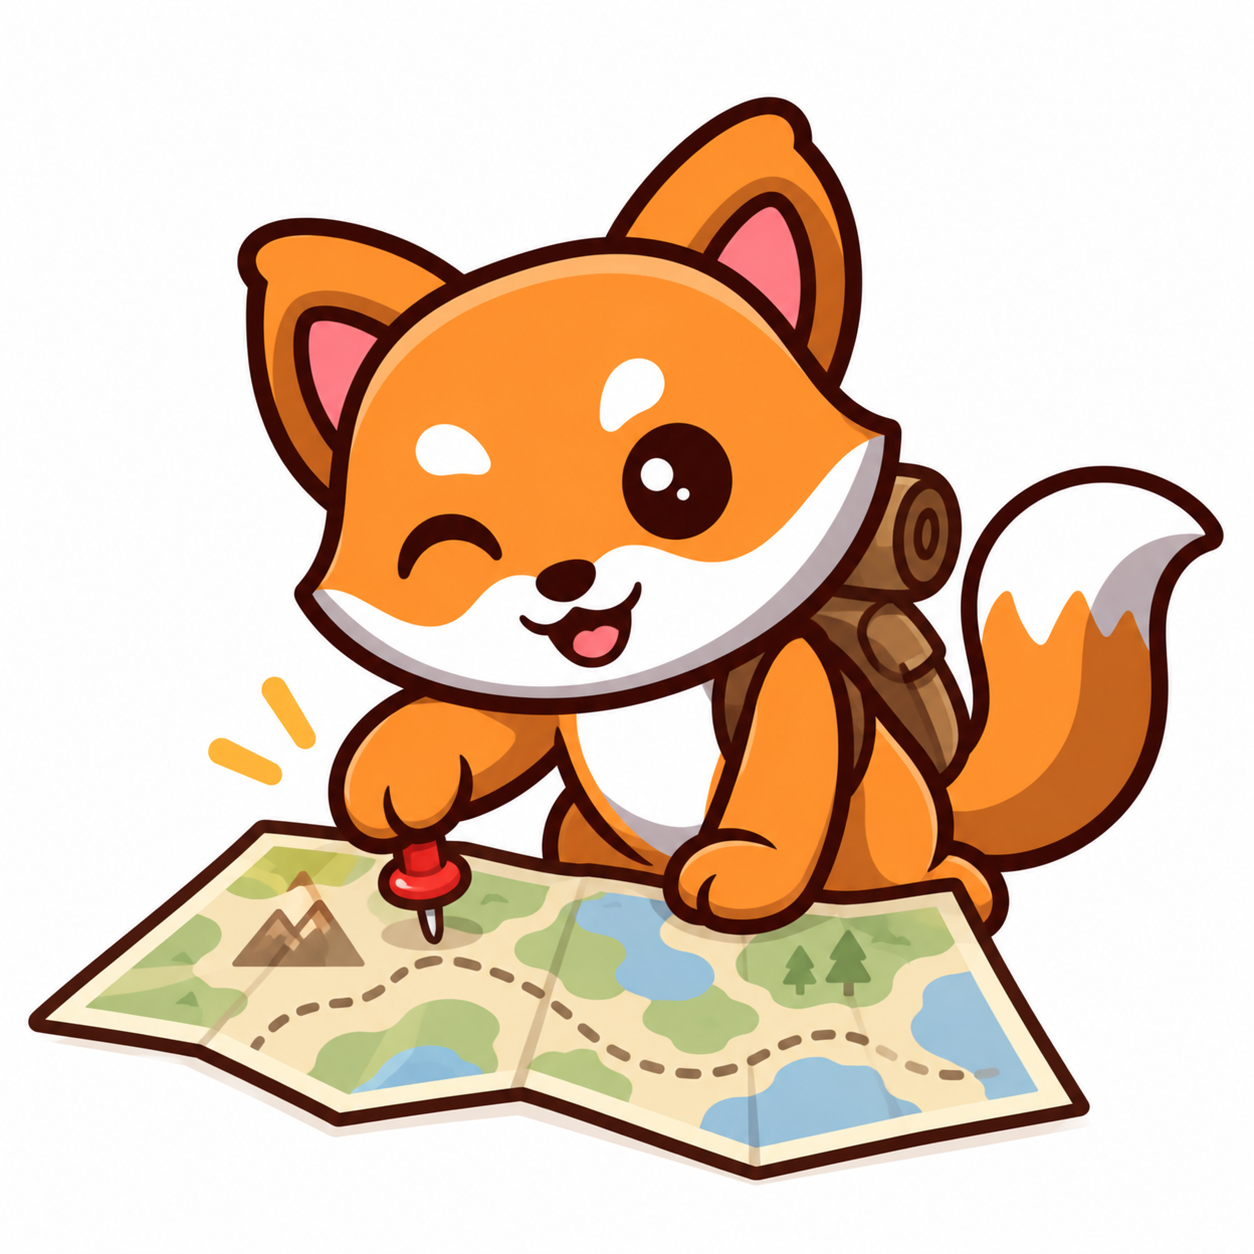
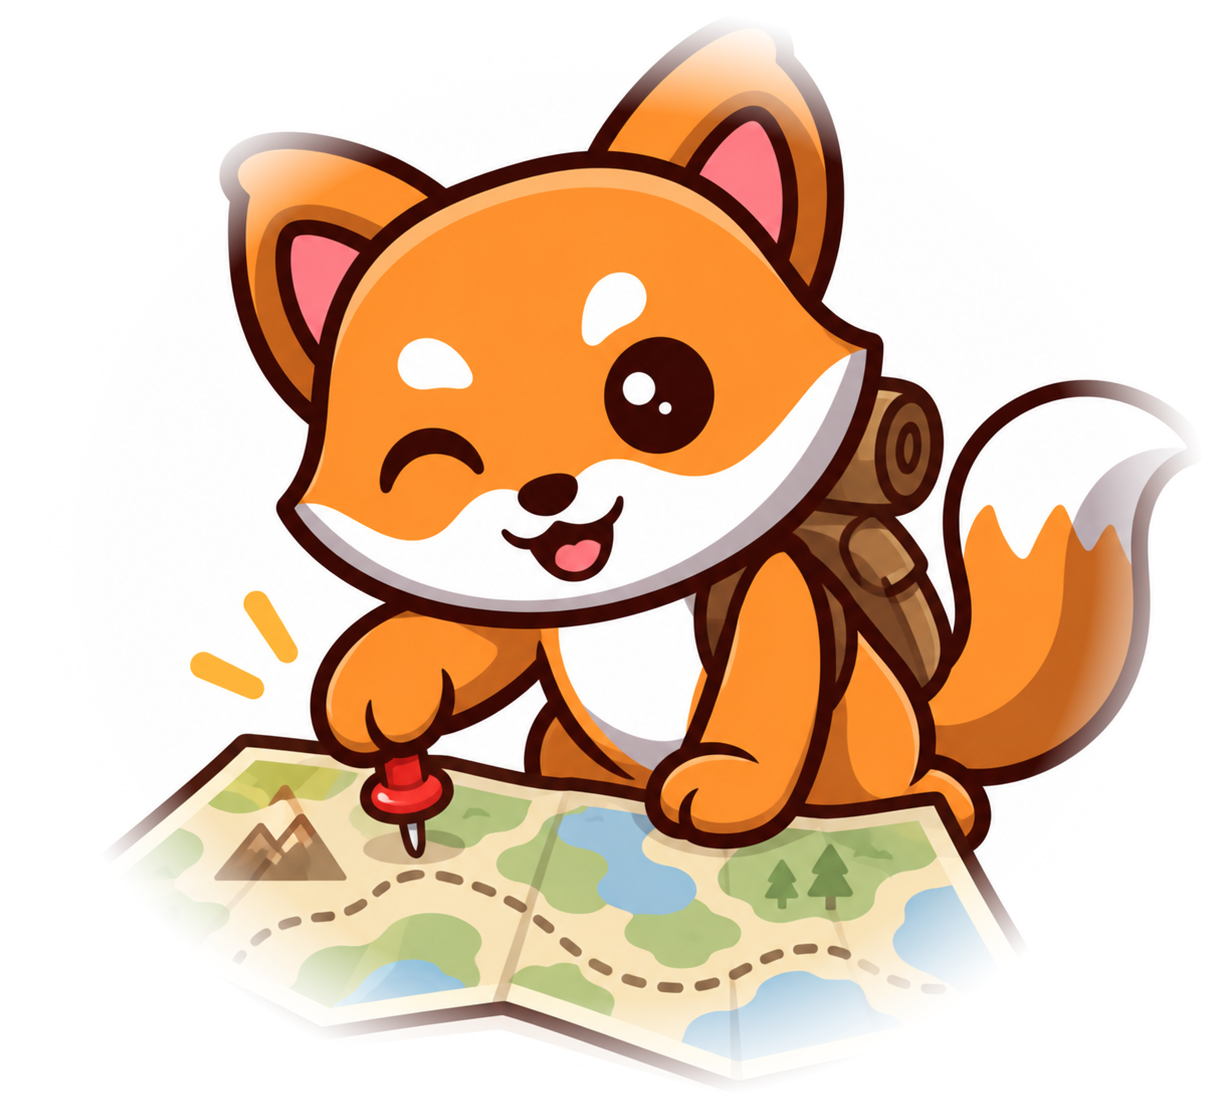
Add 3-screen onboarding carousel after the welcome screen
Shows after "Comenzar" on the welcome screen, before sign-in: create
a trip and share it with friends (recuerdo.png), save a memory
(registro.png), and link an NFC sticker (reuses saludo.png -- no
dedicated artwork for that one). Dots indicator, "Siguiente"/
"Comenzar" progression, "Saltar" to skip straight to sign-in, and a
soft fade transition between steps.

recuerdo.png and registro.png had a real opaque white background
(unlike saludo.png, which already had proper alpha). Removing it
turned out to be more involved than expected: a plain color-distance
cutout also erased the character's own white fur (cheeks, belly,
tail tip) since it's the same near-white as the background, and a
border-seeded flood fill leaked through into those regions too
wherever they connect to the true background without a fully closed
outline. Rather than keep chasing a pixel-perfect matte, applied a
soft radial vignette that fades the image to transparent only in its
outer margin -- the character (centered, away from the edges) is
never touched, and the crop's rectangular edge just dissolves into
the screen's cream background instead of showing as a white box.

diff --git a/components/OnboardingCarousel.tsx b/components/OnboardingCarousel.tsx
@@ -1,0 +1,110 @@
+import { useRef, useState } from 'react';
+import { Animated, Pressable, StyleSheet, Text, View } from 'react-native';
+import { Ionicons } from '@expo/vector-icons';
+import { colors, fonts, radii, spacing } from '@/constants/theme';
+import { FloatingMascot } from './FloatingMascot';
+
+const STEPS = [
+  {
+    // eslint-disable-next-line @typescript-eslint/no-require-imports
+    image: require('../assets/mascota/recuerdo.png'),
+    title: 'Crea tu viaje',
+    body: 'Organiza cada aventura y comparte el viaje con tus amigos para que todos podáis añadir recuerdos juntos.',
+  },
+  {
+    // eslint-disable-next-line @typescript-eslint/no-require-imports
+    image: require('../assets/mascota/registro.png'),
+    title: 'Guarda tus recuerdos',
+    body: 'Añade fotos, notas y los momentos especiales de cada día, todo en un mismo sitio.',
+  },
+  {
+    // eslint-disable-next-line @typescript-eslint/no-require-imports
+    image: require('../assets/mascota/saludo.png'),
+    title: 'Vincula un NFC',
+    body: 'Pega un sticker NFC a un objeto físico. Al acercar el móvil, el recuerdo se abre al instante.',
+  },
+];
+
+export function OnboardingCarousel({ onFinish }: { onFinish: () => void }) {
+  const [step, setStep] = useState(0);
+  const fade = useRef(new Animated.Value(1)).current;
+  const isLast = step === STEPS.length - 1;
+  const current = STEPS[step];
+
+  const goTo = (next: number) => {
+    Animated.sequence([
+      Animated.timing(fade, { toValue: 0, duration: 140, useNativeDriver: true }),
+    ]).start(() => {
+      setStep(next);
+      Animated.timing(fade, { toValue: 1, duration: 220, useNativeDriver: true }).start();
+    });
+  };
+
+  const onNext = () => {
+    if (isLast) {
+      onFinish();
+      return;
+    }
+    goTo(step + 1);
+  };
+
+  return (
+    <View style={styles.screen}>
+      <Pressable style={styles.skip} onPress={onFinish}>
+        <Text style={styles.skipText}>Saltar</Text>
+      </Pressable>
+
+      <Animated.View style={[styles.content, { opacity: fade }]}>
+        <FloatingMascot source={current.image} />
+        <Text style={styles.title}>{current.title}</Text>
+        <Text style={styles.body}>{current.body}</Text>
+      </Animated.View>
+
+      <View style={styles.bottom}>
+        <View style={styles.dots}>
+          {STEPS.map((_, i) => (
+            <View key={i} style={[styles.dot, i === step && styles.dotOn]} />
+          ))}
+        </View>
+
+        <Pressable style={({ pressed }) => [styles.button, pressed && { opacity: 0.9 }]} onPress={onNext}>
+          <Text style={styles.buttonText}>{isLast ? 'Comenzar' : 'Siguiente'}</Text>
+          <Ionicons name="arrow-forward" size={18} color={colors.background} />
+        </Pressable>
+      </View>
+    </View>
+  );
+}
+
+const styles = StyleSheet.create({
+  screen: { flex: 1, backgroundColor: colors.background },
+  skip: { position: 'absolute', top: 60, right: spacing.xl, zIndex: 1, padding: spacing.xs },
+  skipText: { fontFamily: fonts.sansSemiBold, color: colors.ink55, fontSize: 14 },
+  content: { flex: 1, alignItems: 'center', justifyContent: 'center', paddingHorizontal: spacing.xl },
+  title: { fontFamily: fonts.serif, fontSize: 28, color: colors.ink, textAlign: 'center', marginTop: spacing.lg },
+  body: {
+    fontFamily: fonts.sansMedium,
+    fontSize: 15,
+    color: colors.ink55,
+    textAlign: 'center',
+    marginTop: spacing.sm,
+    lineHeight: 21,
+    maxWidth: 320,
+  },
+  bottom: { paddingHorizontal: spacing.xl, paddingBottom: spacing.xxl, alignItems: 'center', gap: spacing.lg },
+  dots: { flexDirection: 'row', gap: 8 },
+  dot: { width: 7, height: 7, borderRadius: 3.5, backgroundColor: colors.line },
+  dotOn: { backgroundColor: colors.terracotta, width: 20 },
+  button: {
+    flexDirection: 'row',
+    alignItems: 'center',
+    gap: 8,
+    backgroundColor: colors.terracotta,
+    borderRadius: radii.pill,
+    paddingVertical: 16,
+    paddingHorizontal: spacing.xxl,
+    alignSelf: 'stretch',
+    justifyContent: 'center',
+  },
+  buttonText: { fontFamily: fonts.sansBold, color: colors.background, fontSize: 16 },
+});

diff --git a/app/_layout.tsx b/app/_layout.tsx
@@ -18,7 +18,10 @@ import {
 import { AuthProvider } from '@/lib/auth-context';
 import { ConfirmProvider } from '@/lib/confirm-context';
 import { WelcomeOverview } from '@/components/WelcomeOverview';
+import { OnboardingCarousel } from '@/components/OnboardingCarousel';
 import { colors } from '@/constants/theme';
+
+type Stage = 'welcome' | 'onboarding' | 'app';
 
 SplashScreen.preventAutoHideAsync().catch(() => {});
 
@@ -34,7 +37,7 @@ export default function RootLayout() {
     DMSerifDisplay_400Regular_Italic,
   });
   const fontsLoaded = interLoaded && serifLoaded;
-  const [welcomeDismissed, setWelcomeDismissed] = useState(false);
+  const [stage, setStage] = useState<Stage>('welcome');
 
   useEffect(() => {
     if (fontsLoaded) SplashScreen.hideAsync().catch(() => {});
@@ -47,7 +50,7 @@ export default function RootLayout() {
       <SafeAreaProvider>
         <AuthProvider>
           <ConfirmProvider>
-            {welcomeDismissed ? (
+            {stage === 'app' && (
               <Stack
                 screenOptions={{
                   headerShown: false,
@@ -62,9 +65,9 @@ export default function RootLayout() {
                 <Stack.Screen name="vincular-nfc" options={{ presentation: 'modal' }} />
                 <Stack.Screen name="seleccionar-lugar" options={{ presentation: 'modal' }} />
               </Stack>
-            ) : (
-              <WelcomeOverview onContinue={() => setWelcomeDismissed(true)} />
             )}
+            {stage === 'welcome' && <WelcomeOverview onContinue={() => setStage('onboarding')} />}
+            {stage === 'onboarding' && <OnboardingCarousel onFinish={() => setStage('app')} />}
           </ConfirmProvider>
         </AuthProvider>
       </SafeAreaProvider>

diff --git a/components/FloatingMascot.tsx b/components/FloatingMascot.tsx
@@ -1,0 +1,31 @@
+import { useEffect, useRef } from 'react';
+import { Animated, Easing, Image, StyleSheet, type ImageSourcePropType } from 'react-native';
+
+const SIZE = 200;
+
+export function FloatingMascot({ source }: { source: ImageSourcePropType }) {
+  const float = useRef(new Animated.Value(0)).current;
+
+  useEffect(() => {
+    const loop = Animated.loop(
+      Animated.sequence([
+        Animated.timing(float, { toValue: -1, duration: 1400, easing: Easing.inOut(Easing.sin), useNativeDriver: true }),
+        Animated.timing(float, { toValue: 1, duration: 1400, easing: Easing.inOut(Easing.sin), useNativeDriver: true }),
+      ])
+    );
+    loop.start();
+    return () => loop.stop();
+  }, [float]);
+
+  const translateY = float.interpolate({ inputRange: [-1, 1], outputRange: [-8, 8] });
+
+  return (
+    <Animated.View style={{ transform: [{ translateY }] }}>
+      <Image source={source} style={styles.image} resizeMode="contain" />
+    </Animated.View>
+  );
+}
+
+const styles = StyleSheet.create({
+  image: { width: SIZE, height: SIZE },
+});
